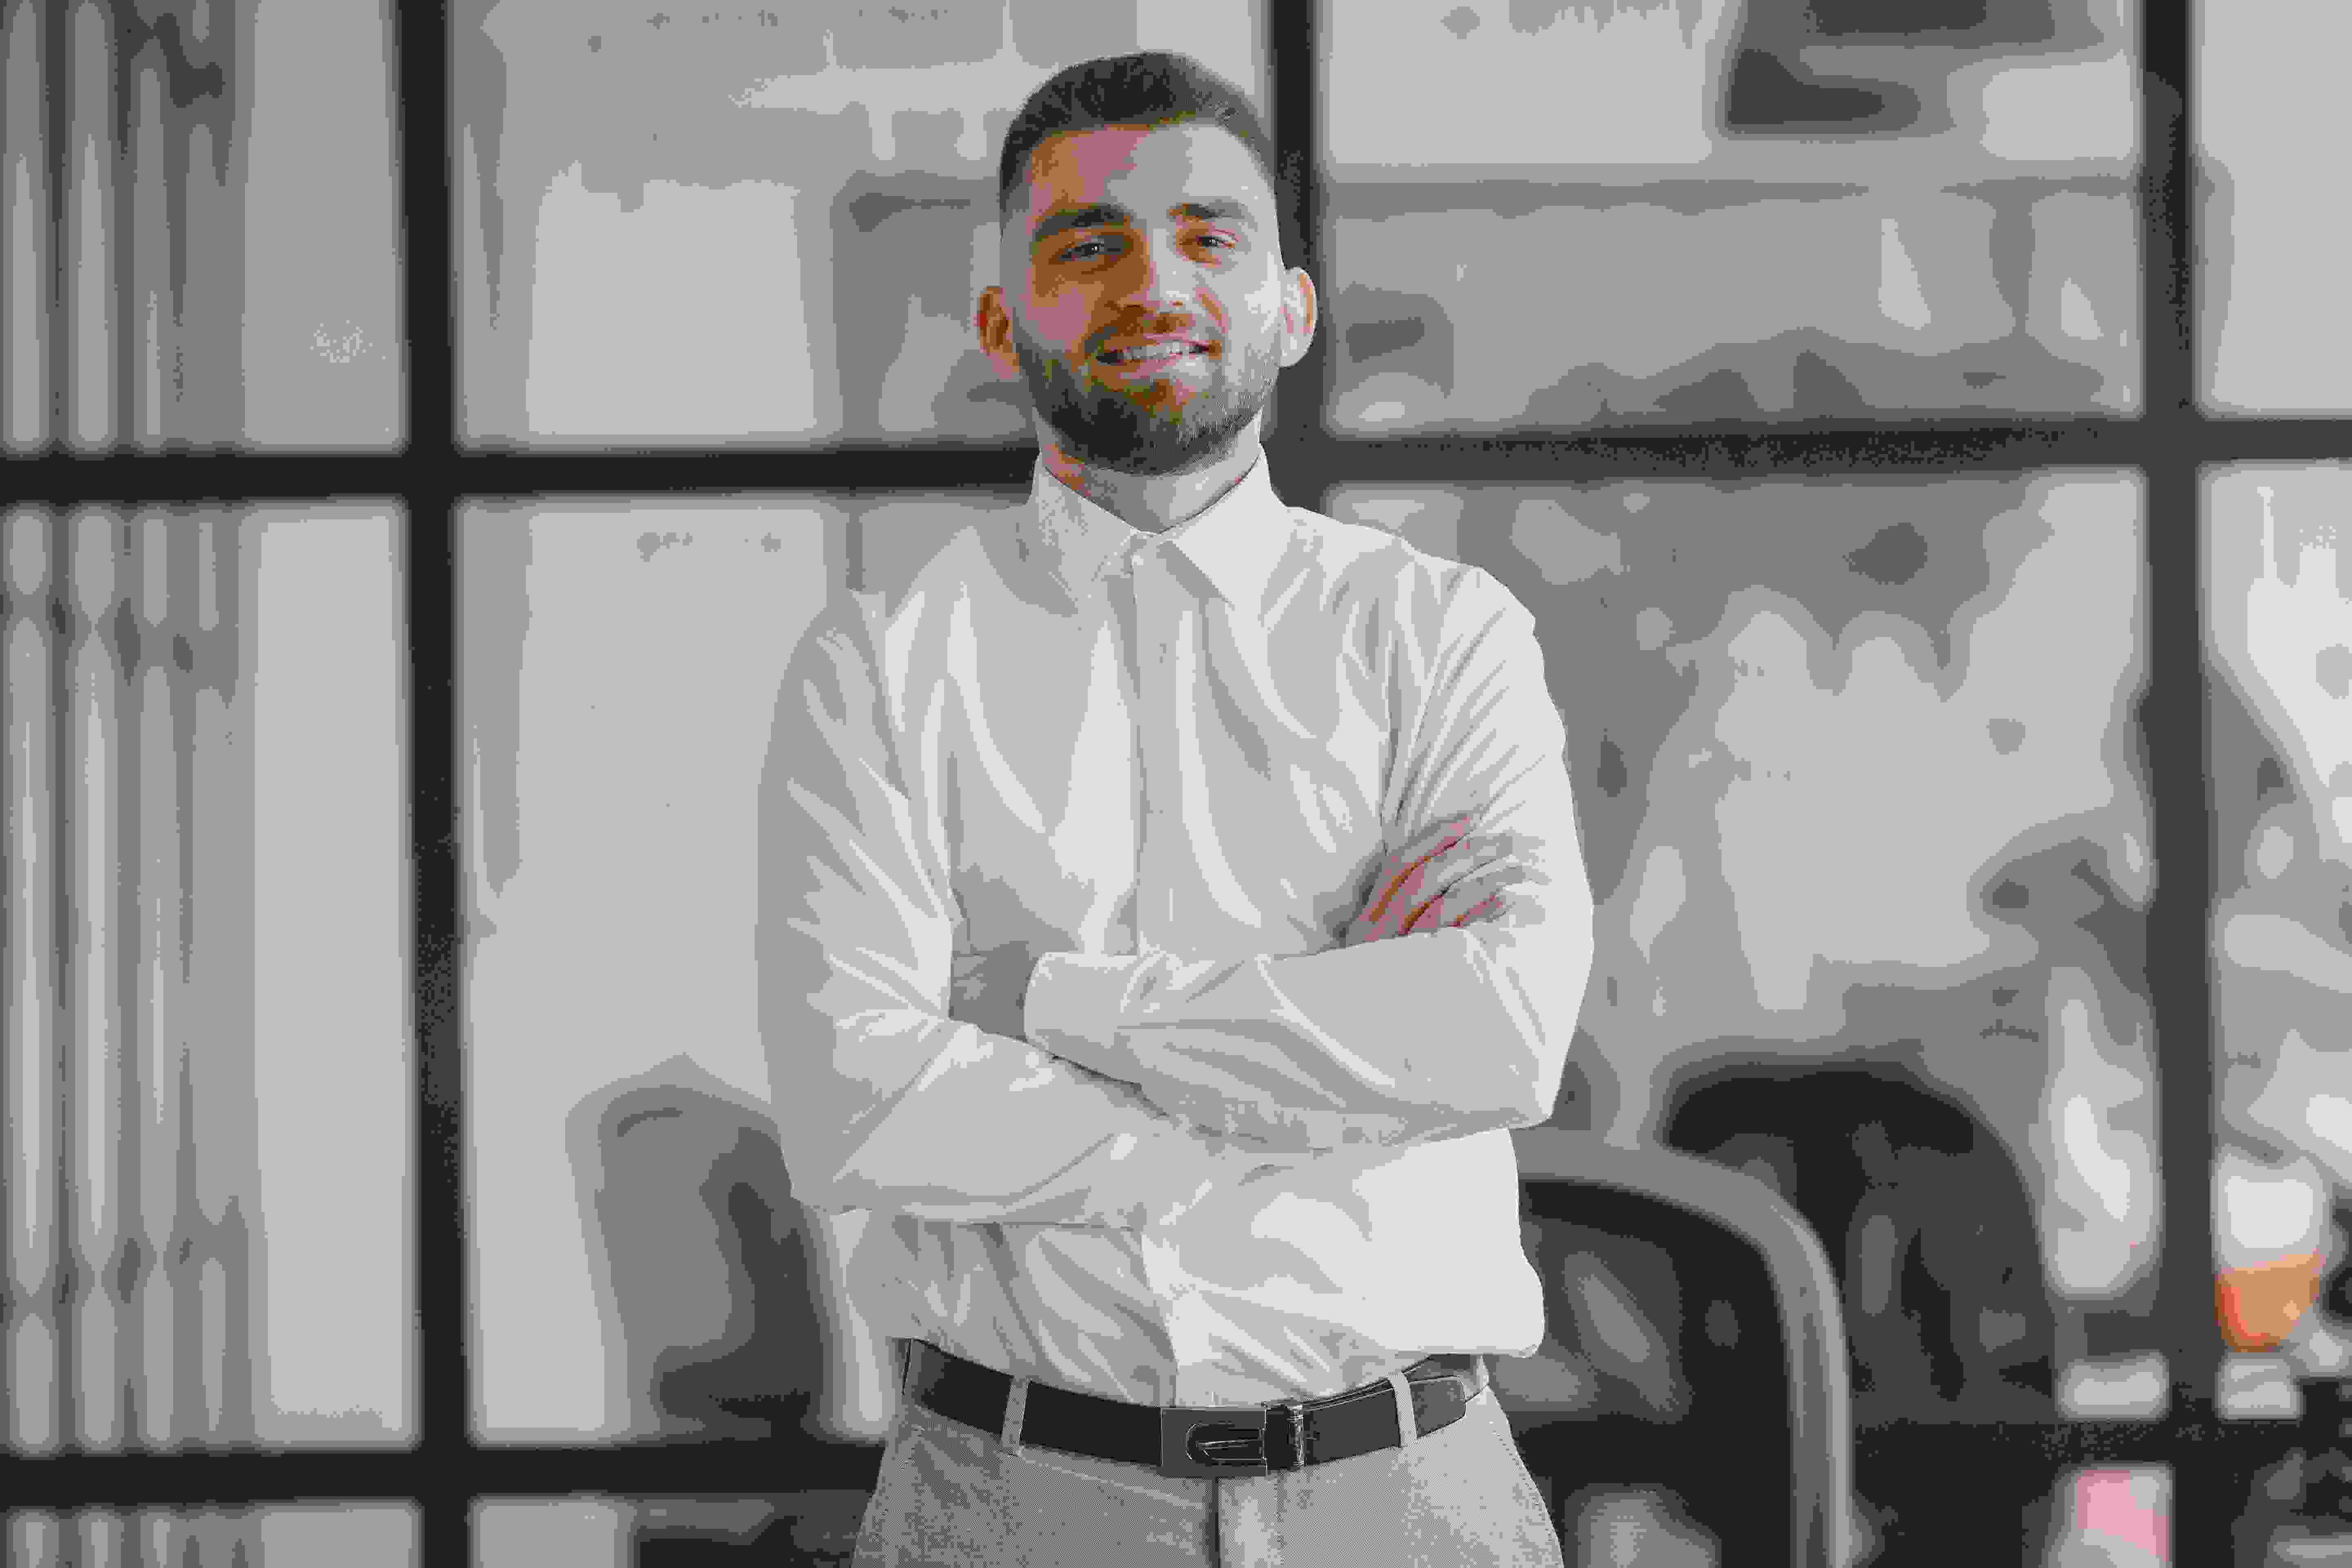
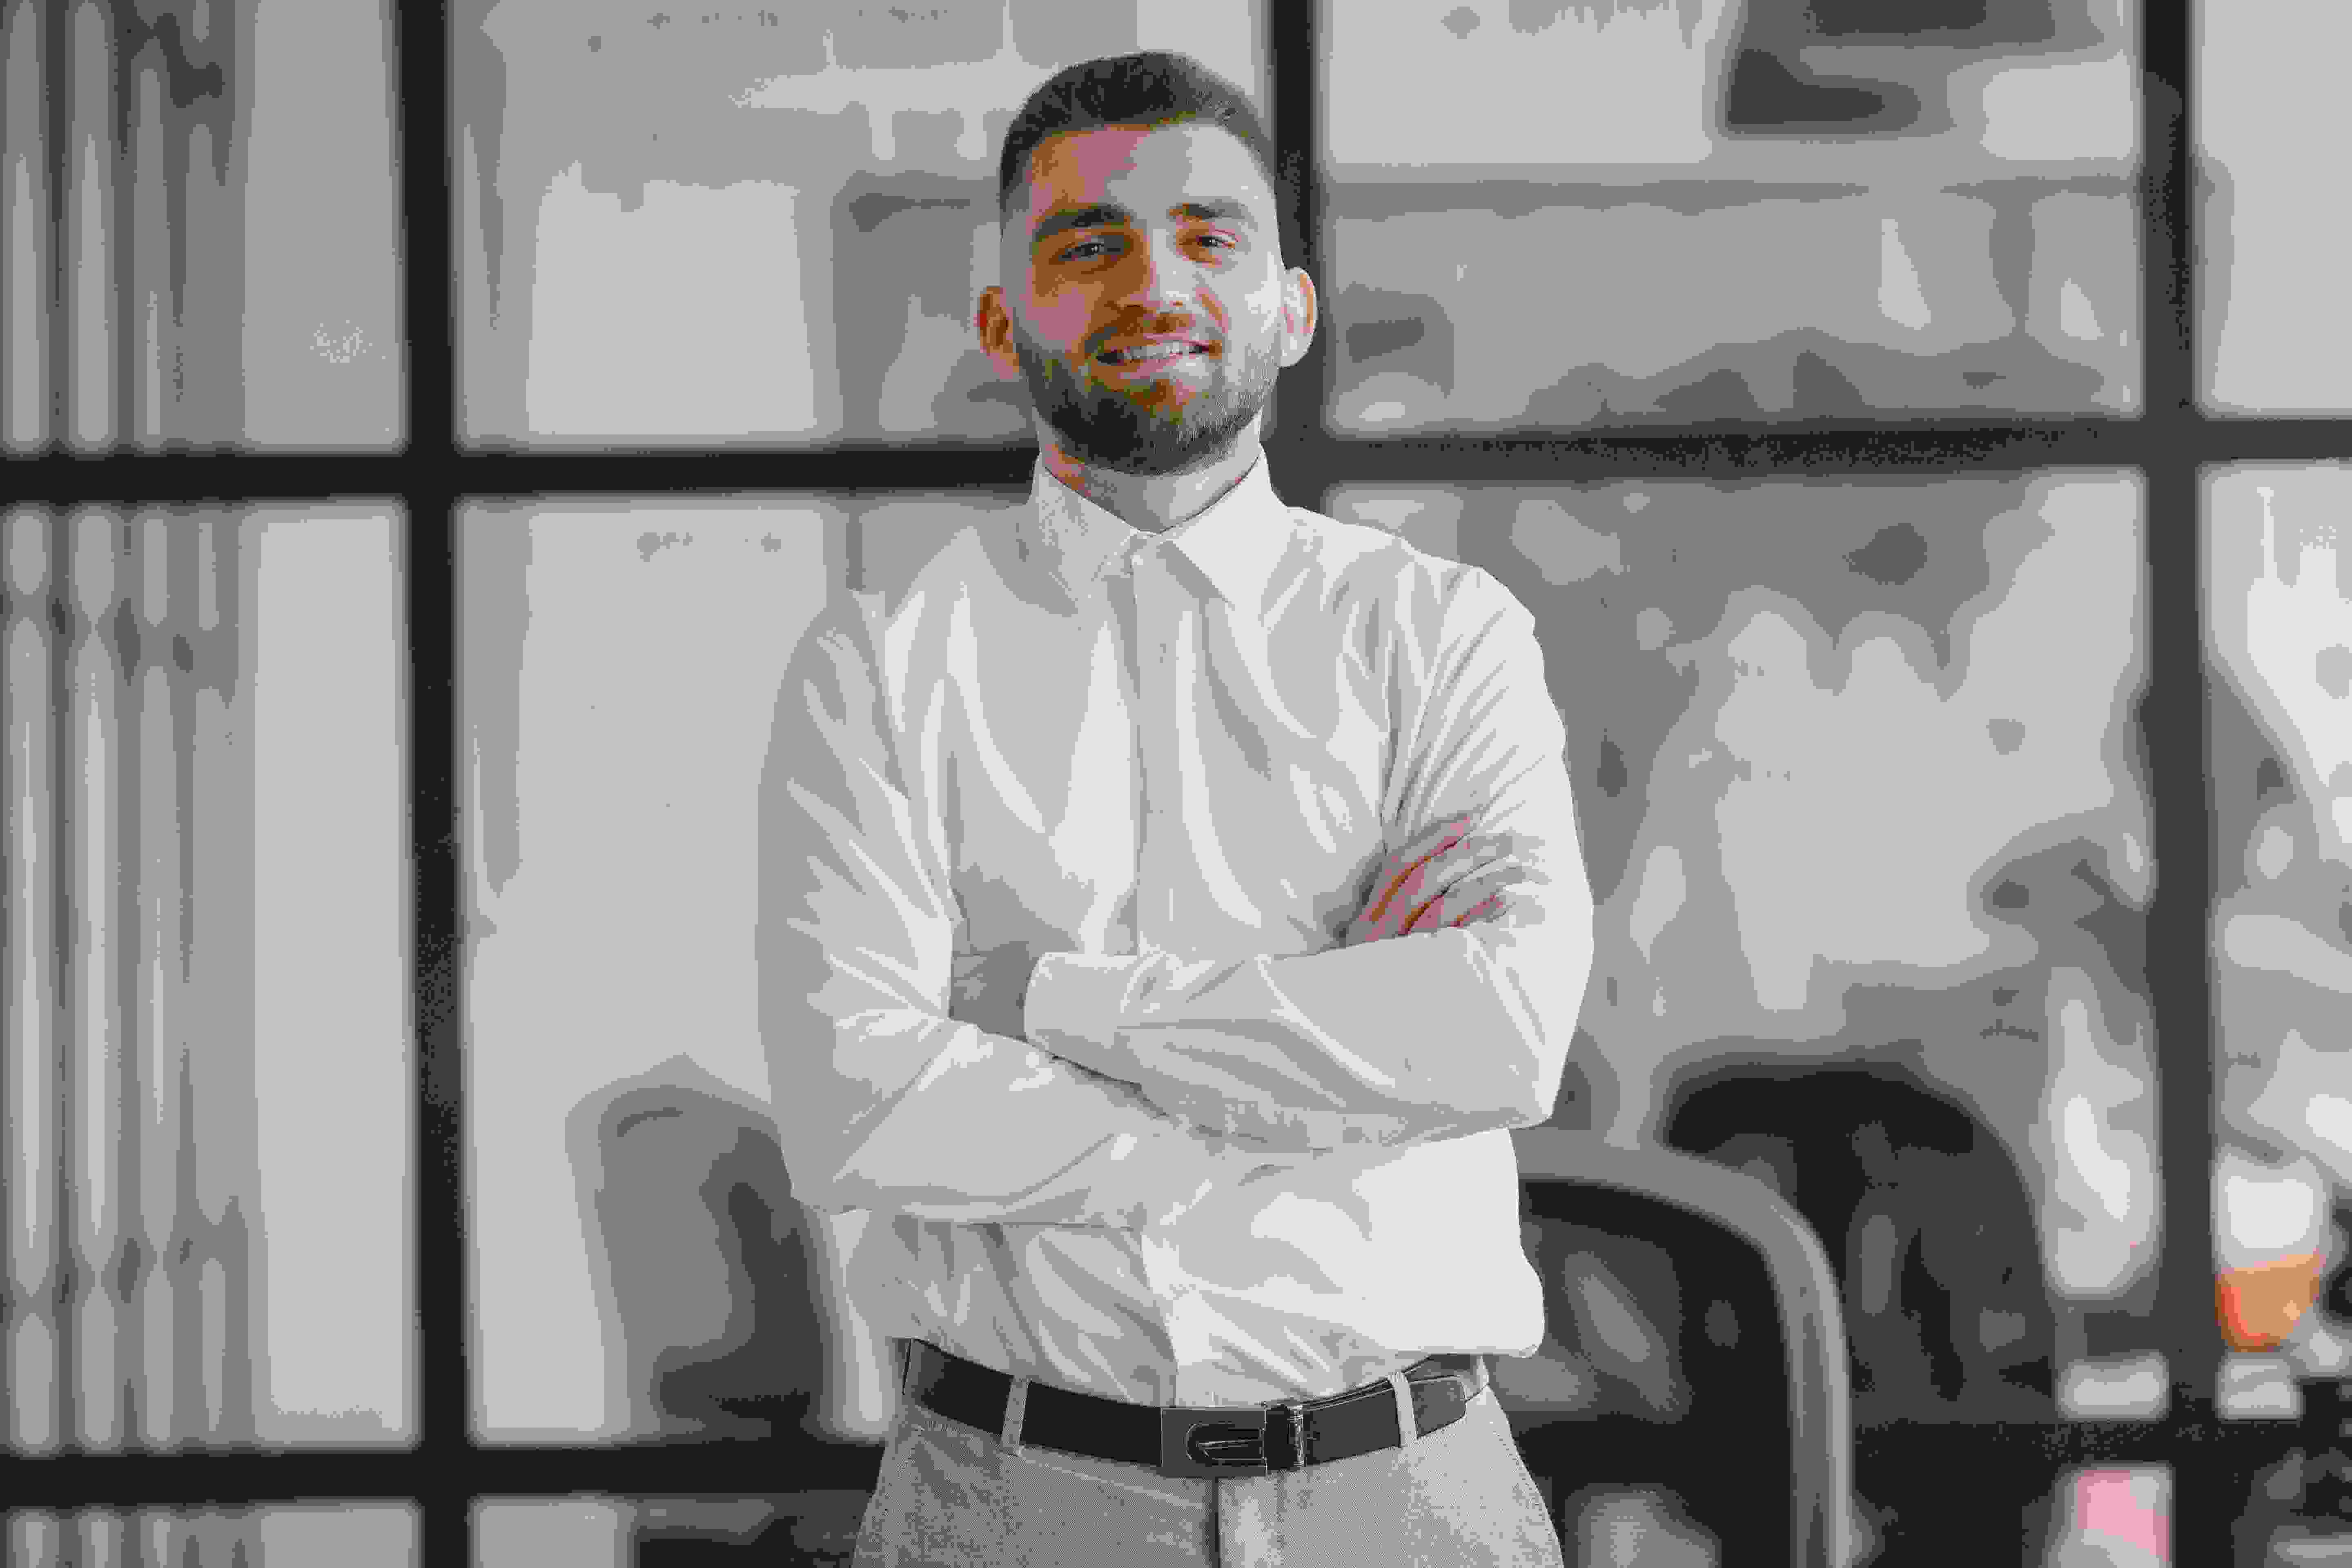
changes

Changed region(s): [[0.375, 0.9062, 0.625, 1.0]]

diff --git a/wwr/contact.html b/wwr/contact.html
@@ -23,7 +23,7 @@
     </header>
 
     <main>
-        <h1>Contact Us</h1>
+        <h1>Contact Rapid Rivers Rafting</h1>
 
         <div class="contact-grid">
             <section class="contact-info">
@@ -55,12 +55,18 @@
 
                     <fieldset class="form-item">
                         <legend>Message Purpose:</legend>
-                        <label><input type="radio" name="purpose" value="general" checked> General
-                            Inquiry</label>
-                        <label><input type="radio" name="purpose" value="reservation"> Reservation
-                            Question</label>
-                        <label><input type="radio" name="purpose" value="suggestion"> Website
-                            Suggestion</label>
+                        <label for="general">
+                            <input type="radio" id="general" name="purpose" value="general" checked>
+                            General Inquiry
+                        </label>
+                        <label for="reservation">
+                            <input type="radio" id="reservation" name="purpose" value="reservation">
+                            Reservation Question
+                        </label>
+                        <label for="suggestion">
+                            <input type="radio" id="suggestion" name="purpose" value="suggestion">
+                            Website Suggestion
+                        </label>
                     </fieldset>
 
                     <div class="form-item">
@@ -70,8 +76,8 @@
                     </div>
 
                     <div class="form-item checkbox-container">
-                        <label>
-                            <input type="checkbox" name="subscribe" value="yes">
+                        <label for="subscribe">
+                            <input type="checkbox" id="subscribe" name="subscribe" value="yes">
                             Please Subscribe me to the monthly newsletter
                         </label>
                     </div>
@@ -93,7 +99,7 @@
                     <figcaption>Safety Instructor - Mike</figcaption>
                 </figure>
                 <figure>
-                    <img src="images/employee3.jpg" alt="Manager">
+                    <img src="images/employee3.jpg" alt="Operations Manager David">
                     <figcaption>Operations Manager - David</figcaption>
                 </figure>
             </div>
@@ -101,7 +107,7 @@
     </main>
 
     <footer>
-        <p>&copy; 2026 Rapid Rivers Rafting. Roger Camacho Orellana.</p>
+        <p>© 2026 Rapid Rivers Rafting. Roger Camacho Orellana.</p>
         <nav class="socialmedia">
             <a href="https://facebook.com">
                 <img src="images/facebook.svg" alt="Facebook Icon">